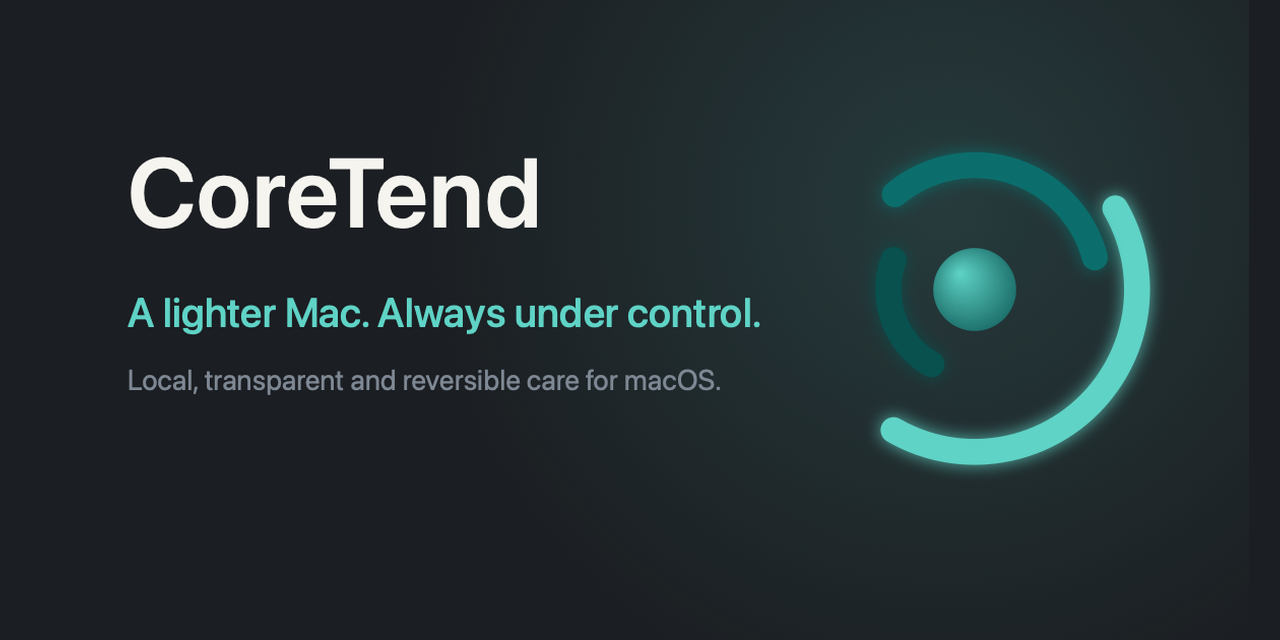
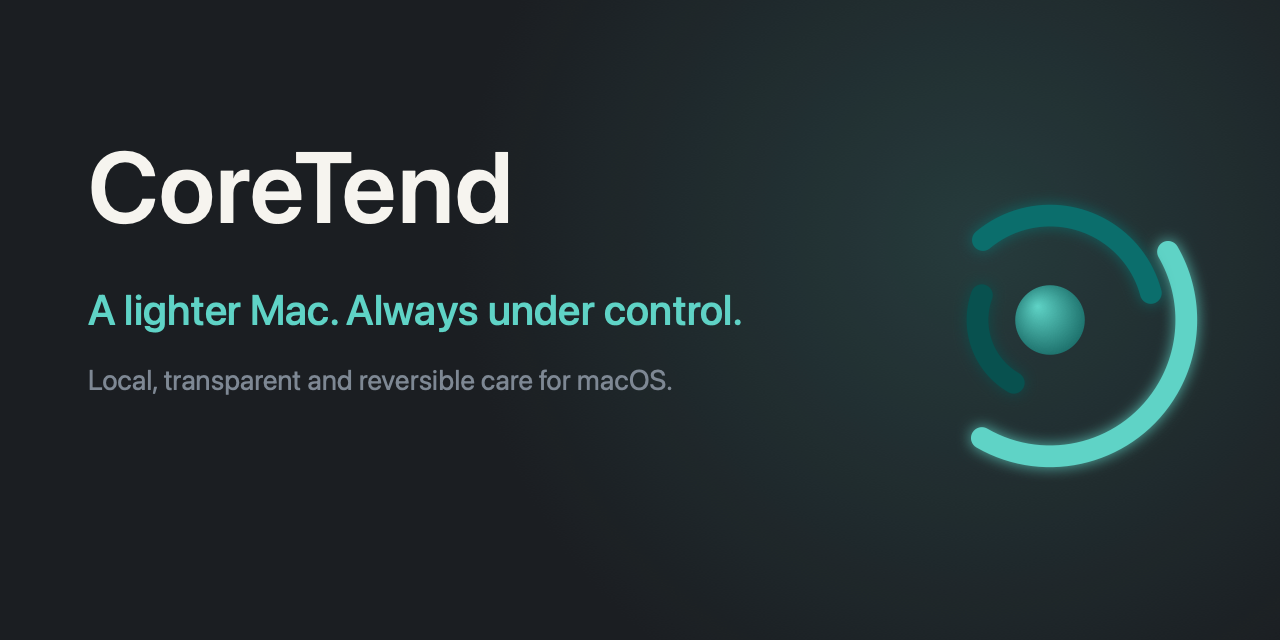
brand: generate the GitHub social card so it clears the 40pt safe border
The hand-made .github/social-preview.png put the Core Bloom mark ~15px from
the right edge — inside GitHub's recommended 40pt safe zone, so Slack / Discord
/ X re-crops clipped it. Added socialPreview() to the brand generator (1280x640,
same composition as the Open Graph card, mark pulled in): measured margins are
88 / 77 / 202 / 167 px (L/R/T/B), all well clear of 40. check-brand-assets.sh
now guards SocialPreview-1280x640.png at its exact size, and
README-social-preview.md documents the regenerate-and-copy step.

Still a manual upload in Settings -> General -> Social preview; GitHub does not
read it from the repo.

Claude-Session: https://claude.ai/code/session_012js68sByAxZ6WugPBiyTQG

diff --git a/Resources/Brand/Sources/generate-brand-assets.swift b/Resources/Brand/Sources/generate-brand-assets.swift
@@ -306,6 +306,36 @@ func openGraph() -> CGImage {
     return ctx.makeImage()!
 }
 
+/// GitHub repository social card, 1280x640. Same composition as the Open Graph
+/// card, retuned for GitHub's 2:1 frame: GitHub re-crops this image for Slack,
+/// Discord and X previews, so every element keeps well clear of the 40pt safe
+/// border they recommend. Not applied automatically — a human uploads it in
+/// Settings -> General -> Social preview.
+func socialPreview() -> CGImage {
+    let w = 1280, h = 640
+    let ctx = makeContext(w, h)
+    ctx.setFillColor(cgColor(coreInk))
+    ctx.fill(CGRect(x: 0, y: 0, width: CGFloat(w), height: CGFloat(h)))
+
+    let halo = CGGradient(colorsSpace: CGColorSpace(name: CGColorSpace.sRGB)!,
+                          colors: [cgColor(cobaltBright, 0.16), cgColor(cobaltBright, 0)] as CFArray,
+                          locations: [0, 1])!
+    ctx.drawRadialGradient(halo, startCenter: CGPoint(x: 980, y: 400), startRadius: 0,
+                           endCenter: CGPoint(x: 980, y: 400), endRadius: 520, options: [])
+
+    // Mark centred vertically, its rightmost arc + glow landing ~66px from the
+    // edge — inside the 40pt safe zone with room to spare.
+    drawBloom(ctx, rect: CGRect(x: 905, y: 175, width: 290, height: 290),
+              lineWidthFraction: 0.075, glow: true)
+
+    drawWordmark(ctx, at: CGPoint(x: 88, y: 396), pointSize: 100, color: softPorcelain)
+    _ = drawText(ctx, "A lighter Mac. Always under control.", at: CGPoint(x: 88, y: 306),
+                 size: 42, weight: .medium, color: cobaltBright)
+    _ = drawText(ctx, "Local, transparent and reversible care for macOS.", at: CGPoint(x: 88, y: 244),
+                 size: 28, weight: .regular, color: mutedSlate)
+    return ctx.makeImage()!
+}
+
 /// DMG window background, 600x400 points (1200x800 at @2x).
 ///
 /// Carries the same Porcelain / Slate / Teal palette as the website — the
@@ -541,6 +571,7 @@ savePNG(compactLogo(side: 768, surface: .dark),
         to: out.appendingPathComponent("Onboarding-Hero.png"))
 
 savePNG(openGraph(), to: out.appendingPathComponent("OpenGraph-1200x630.png"))
+savePNG(socialPreview(), to: out.appendingPathComponent("SocialPreview-1280x640.png"))
 savePNG(dmgBackground(), to: out.appendingPathComponent("DMG-Background.png"))
 savePNG(dmgBackground(scale: 2), to: out.appendingPathComponent("DMG-Background@2x.png"))
 

diff --git a/.github/README-social-preview.md b/.github/README-social-preview.md
@@ -1,7 +1,18 @@
 # Repository social preview
 
 `social-preview.png` (1280×640) is the image GitHub shows when the repo is
-linked on social media / chat. It is **not** applied automatically — upload it
-once in **Settings → General → Social preview**. Regenerate it from
-`Resources/Brand/Sources/generate-brand-assets.swift` output whenever the
-brand marks change.
+linked on social media / chat. GitHub does **not** read it from the repo — a
+human uploads it once in **Settings → General → Social preview**.
+
+It is a straight copy of `Resources/Brand/Generated/SocialPreview-1280x640.png`,
+produced by `socialPreview()` in
+`Resources/Brand/Sources/generate-brand-assets.swift` (checked by
+`Scripts/check-brand-assets.sh`). Every element clears GitHub's recommended
+40 pt safe border with room to spare, so Slack / Discord / X re-crops do not
+clip the mark or the wordmark. Regenerate and re-copy whenever the brand marks
+change:
+
+```sh
+swift Resources/Brand/Sources/generate-brand-assets.swift
+cp Resources/Brand/Generated/SocialPreview-1280x640.png .github/social-preview.png
+```
